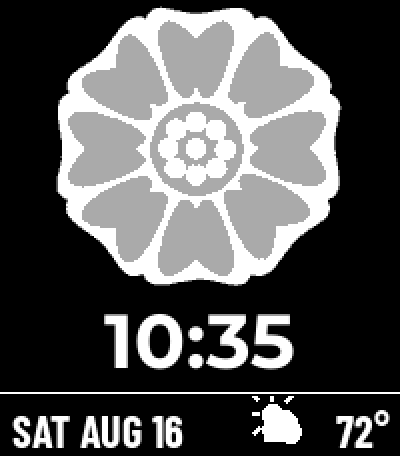
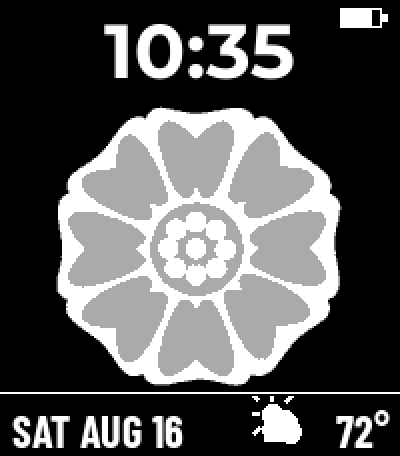
Move the time above the flower so timeline peeks stop covering it
A timeline quick view slides up from the bottom of the screen and holds a
band of it for as long as it is up. The time was in that band, so every
notification cut it in half — see screenshots/before-quickview.png.

Reordering the three bands fixes it without giving anything up, because
they already filled the 228px exactly: the time takes the top 50, the
flower bitmap the 146 under it, and the strip keeps the bottom 32. The
peek now lands on the date and weather, which are worth losing for the
few seconds it is up.

The bluetooth icon moves to the left corner. Beside the battery it
reached far enough in from the right that a 24h "23:58" came within one
pixel of it; split across the two corners the time has 18px on each side.
tools/mockup.py checks both gaps now, and the fit checks it already did
are updated for the new band positions.

Claude-Session: https://claude.ai/code/session_01X5gF5P6zNmFWki7CSijybw

diff --git a/src/c/lotus.c b/src/c/lotus.c
@@ -5,7 +5,7 @@
 // White Lotus watchface for emery (Pebble Time 2, 200x228).
 //
 // The whole face is one layer with a single update proc, in three bands: the
-// tile's flower across the top as a bitmap, the time under it, and a strip
+// time across the top, the tile's flower under it as a bitmap, and a strip
 // across the bottom carrying the day, date and weather. Everything is drawn
 // from cached strings so the update proc never formats anything itself.
 
@@ -13,19 +13,31 @@
 // LAYOUT -- keep in sync with tools/build_assets.py and tools/mockup.py
 // ---------------------------------------------------------------------------
 // The tile artwork is traced by tools/build_assets.py, which owns its geometry.
-// Only ART_H matters here: the bitmap covers y=0..145 and the time band starts
-// where it stops.
+// Only ART_H matters here: the bitmap is that tall and gets placed at ART_TOP.
 #define ART_H 146
 
-// The time sits below the flower rather than on it. The tile's centre is a seed
-// pod of small dots -- the thing that identifies it as the White Lotus tile at
-// all -- so putting the time there would mean drawing over the one part of the
-// artwork worth keeping. Below it, the time gets the full screen width instead
-// of a chord across a medallion, which is why it can be this large.
+// The time is above the flower, not on it and not below it.
+//
+// Not on it, because the tile's centre is a seed pod of small dots -- the thing
+// that identifies it as the White Lotus tile at all -- so the time there would
+// cover the one part of the artwork worth keeping. Off the flower, the time gets
+// the full screen width instead of a chord across a medallion, which is why it
+// can be this large.
+//
+// Above rather than below, because a timeline peek slides up from the bottom of
+// the screen and covers a band of it for as long as it is up. Whatever sits down
+// there is the thing that gets hidden, and the time is the one item on this face
+// that has to be readable at a glance without dismissing anything first. The
+// date and weather take the hit instead.
 #define TIME_LEFT 0
 #define TIME_WIDTH 200
-#define TIME_TOP ART_H
-#define TIME_HEIGHT 48
+#define TIME_TOP 0
+#define TIME_HEIGHT 50
+
+// What is left between the time and the strip's rule is exactly the bitmap:
+// 50 + 146 = 196 = PANEL_TOP. The three bands fill the screen with nothing to
+// spare, so moving any one of them means moving another.
+#define ART_TOP TIME_HEIGHT
 
 // The info strip.
 #define PANEL_TOP 196
@@ -129,6 +141,10 @@ static void prv_set_weather_icon(int index) {
   }
 }
 
+// The status icons share the top band with the time: bluetooth in the left
+// corner, battery in the right, the time centred between them. At its widest --
+// "23:58" -- the time is 103px of the 200, so there is room on both sides;
+// tools/mockup.py checks both gaps.
 static void prv_draw_battery(GContext *ctx, GRect bounds) {
   const int x = bounds.size.w - BATT_RIGHT_PAD - BATT_W - 3;  // 3px for the nub
 
@@ -157,7 +173,11 @@ static void prv_draw_bluetooth(GContext *ctx, GRect bounds) {
   if (s_connected) {
     return;
   }
-  const int x = bounds.size.w - BATT_RIGHT_PAD - BATT_W - 3 - BT_W - 6;
+  // In the opposite corner from the battery rather than beside it. Beside it,
+  // the pair reached far enough in from the right that a 24h "23:58" came
+  // within a pixel of the icon; split across the two corners, the time has the
+  // same room on either side and neither icon is anywhere near it.
+  const int x = EDGE_PAD;
   const int y = BATT_TOP;
   graphics_context_set_stroke_color(ctx, STATUS_COLOR);
   graphics_context_set_stroke_width(ctx, 2);
@@ -170,12 +190,13 @@ static void prv_draw_bluetooth(GContext *ctx, GRect bounds) {
 static void prv_canvas_update(Layer *layer, GContext *ctx) {
   const GRect bounds = layer_get_bounds(layer);
 
-  // The flower. The bitmap is only the top ART_H of the screen; the window's
+  // The flower. The bitmap is only the ART_H band under the time; the window's
   // black background carries the rest, which is the same black the artwork's own
-  // ground is drawn in, so there is no seam to hide.
+  // ground is drawn in, so there is no seam to hide -- including the band the
+  // time is drawn into, which is why that band needs no fill of its own.
   if (s_tile) {
     graphics_context_set_compositing_mode(ctx, GCompOpAssign);
-    graphics_draw_bitmap_in_rect(ctx, s_tile, gbitmap_get_bounds(s_tile));
+    graphics_draw_bitmap_in_rect(ctx, s_tile, GRect(0, ART_TOP, bounds.size.w, ART_H));
   }
 
   prv_draw_battery(ctx, bounds);

diff --git a/tools/mockup.py b/tools/mockup.py
@@ -6,8 +6,10 @@ This draws the same thing from the same constants and, more usefully, measures
 the places where the layout can silently overflow:
 
   * the time against its band. It has the full screen width now that it sits
-    below the flower rather than inside the tile's seed pod, so the binding
+    off the flower rather than inside the tile's seed pod, so the binding
     constraint is the band's height, not its width.
+  * the time against the status icons, which share the top band with it now
+    that the time is up there.
   * the date against what the strip leaves it once the weather has taken the
     right-hand end.
 
@@ -32,8 +34,9 @@ FONTS = os.path.join(ROOT, "resources", "fonts")
 # Mirrors the LAYOUT block in src/c/lotus.c.
 SCREEN_W, SCREEN_H = 200, 228
 TIME_SIZE = 38
-TIME_TOP = ba.ART_H
-TIME_HEIGHT = 48
+TIME_TOP = 0
+TIME_HEIGHT = 50
+ART_TOP = TIME_HEIGHT
 INFO_SIZE = 22
 PANEL_TOP = 196
 PANEL_RULE = 1
@@ -41,6 +44,7 @@ INFO_TOP = 200
 EDGE_PAD = 6
 ICON_W, ICON_H, ICON_GAP, ICON_TOP = 32, 28, 2, 198
 INFO_TEMP_W = 36
+BATT_W, BATT_H, BATT_RIGHT_PAD, BATT_TOP, BT_W = 21, 10, 6, 4, 12
 
 BLACK = (0, 0, 0)
 WHITE = (255, 255, 255)
@@ -61,10 +65,17 @@ def draw_face(time_text, date_text, temp_text, icon_index):
     info_font = ImageFont.truetype(os.path.join(FONTS, "info.ttf"), INFO_SIZE)
 
     face = Image.new("RGB", (SCREEN_W, SCREEN_H), BLACK)
-    face.paste(ba.tile(), (0, 0))
+    face.paste(ba.tile(), (0, ART_TOP))
     d = ImageDraw.Draw(face)
 
     d.rectangle([0, PANEL_TOP, SCREEN_W, PANEL_TOP + PANEL_RULE - 1], fill=WHITE)
+
+    # The battery, because it is the thing the time is now closest to.
+    bx = SCREEN_W - BATT_RIGHT_PAD - BATT_W - 3
+    d.rectangle([bx, BATT_TOP, bx + BATT_W - 1, BATT_TOP + BATT_H - 1], outline=WHITE)
+    d.rectangle([bx + BATT_W, BATT_TOP + 3, bx + BATT_W + 2, BATT_TOP + BATT_H - 4], fill=WHITE)
+    d.rectangle([bx + 1, BATT_TOP + 1, bx + 1 + (BATT_W - 2) * 3 // 4, BATT_TOP + BATT_H - 2],
+                fill=WHITE)
 
     d.text((SCREEN_W / 2, TIME_TOP + TIME_HEIGHT / 2), time_text, font=time_font,
            fill=WHITE, anchor="mm")
@@ -96,10 +107,25 @@ def check():
         if w > SCREEN_W or h > TIME_HEIGHT:
             ok = False
 
-    # The band has to end before the strip does, or the time overlaps the date.
-    print("band  %d..%d  strip at %d  slack %+3d" % (TIME_TOP, TIME_TOP + TIME_HEIGHT,
-                                                     PANEL_TOP, PANEL_TOP - TIME_TOP - TIME_HEIGHT))
-    if TIME_TOP + TIME_HEIGHT > PANEL_TOP:
+    # The time is centred in the top band, with bluetooth in the left corner and
+    # the battery in the right. Both gaps have to stay open.
+    bt_right = EDGE_PAD + BT_W
+    batt_left = SCREEN_W - BATT_RIGHT_PAD - BATT_W - 3
+    for s in WIDEST_TIME:
+        w, _ = text_size(time_font, s)
+        left, right = SCREEN_W / 2 - w / 2, SCREEN_W / 2 + w / 2
+        slack = min(left - bt_right, batt_left - right)
+        print("stat  %-6s %3d..%-3d between icons %d and %d  slack %+3d"
+              % (s, left, right, bt_right, batt_left, slack))
+        if slack < 0:
+            ok = False
+
+    # The three bands fill the screen exactly: the flower has to start where the
+    # time band ends and stop before the strip's rule.
+    print("band  time %d..%d  art %d..%d  strip at %d  slack %+3d"
+          % (TIME_TOP, TIME_TOP + TIME_HEIGHT, ART_TOP, ART_TOP + ba.ART_H, PANEL_TOP,
+             PANEL_TOP - ART_TOP - ba.ART_H))
+    if TIME_TOP + TIME_HEIGHT > ART_TOP or ART_TOP + ba.ART_H > PANEL_TOP:
         ok = False
 
     icon_x = SCREEN_W - EDGE_PAD - INFO_TEMP_W - ICON_GAP - ICON_W

diff --git a/README.md b/README.md
@@ -2,8 +2,8 @@
 
 A Pebble Time 2 watchface built around the White Lotus tile from *Avatar: The
 Last Airbender* — the Pai Sho tile the Order of the White Lotus uses as its
-sign. The flower fills the top of the screen, the time sits under it, and a
-strip across the bottom carries the day, date and weather.
+sign. The time runs across the top, the flower fills the middle, and a strip
+across the bottom carries the day, date and weather.
 
 ![preview](preview.png)
 
@@ -61,22 +61,33 @@ Two things about the source are worth knowing before touching
 ## Layout
 
 Everything is drawn by one update proc in `src/c/lotus.c`, in three bands: the
-flower bitmap down to y=146, the time under it, and the strip from y=196. The
-`LAYOUT` block at the top of that file has every coordinate.
+time down to y=50, the flower bitmap from there to y=196, and the strip from
+y=196. The `LAYOUT` block at the top of that file has every coordinate.
 
-The time is **below** the flower rather than on it. The tile's centre is the
-seed pod — the single feature that identifies it as the White Lotus tile at all
-— so putting the time there would mean drawing over the one part of the artwork
-worth having. In exchange the time gets the full screen width instead of a chord
+The time is **off** the flower, not on it. The tile's centre is the seed pod —
+the single feature that identifies it as the White Lotus tile at all — so
+putting the time there would mean drawing over the one part of the artwork worth
+having. In exchange the time gets the full screen width instead of a chord
 across the middle of a disc, which is why it can be 38px.
+
+It is **above** the flower rather than below it because a timeline peek slides
+up from the bottom of the screen and holds a band of it for as long as it is up.
+With the time down there the peek cut it in half; the strip takes the hit
+instead, and losing the date and weather for a few seconds costs nothing.
+
+The three bands fill the 228px exactly — 50 + 146 + 32 — so there is no slack to
+move one without moving another. The status icons share the top band with the
+time: bluetooth in the left corner, battery in the right, the time centred
+between them with 18px to spare on each side at its widest.
 
 `tools/mockup.py` measures the fits that can silently overflow and exits
 non-zero if any slack goes negative, so run it after changing a font size,
 `ART_H`, or `INFO_TEMP_W`:
 
 ```
-time  23:58  103x29  in band 200x48  slack +97 wide +19 tall
-band  146..194  strip at 196  slack  +2
+time  23:58  103x29  in band 200x50  slack +97 wide +21 tall
+stat  23:58   48..151 between icons 18 and 170  slack +18
+band  time 0..50  art 50..196  strip at 196  slack  +0
 date  WED SEPT 30 104  in strip 116  slack +12
 temp  100°         34  in  36       slack  +2
 ```
@@ -98,7 +109,7 @@ Temperature is in Fahrenheit. To switch, change `UNITS` at the top of
 number.
 
 Battery is a gauge in the top right. The bluetooth icon only appears when the
-watch is disconnected, with a double buzz when the link drops.
+watch is disconnected, in the top left, with a double buzz when the link drops.
 
 ## Building
 
